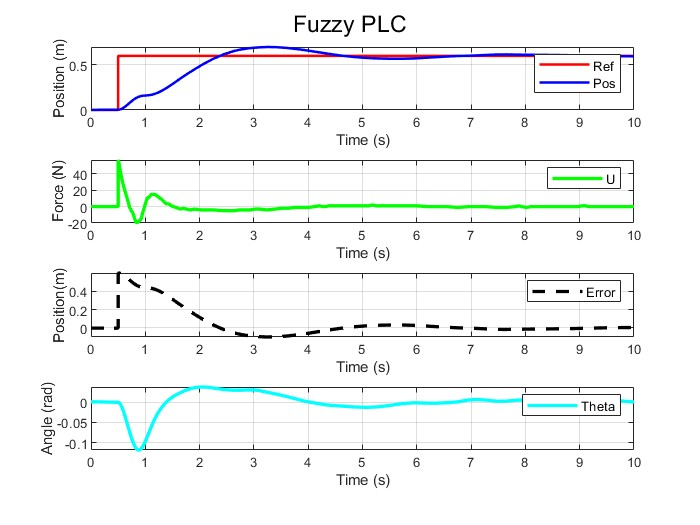
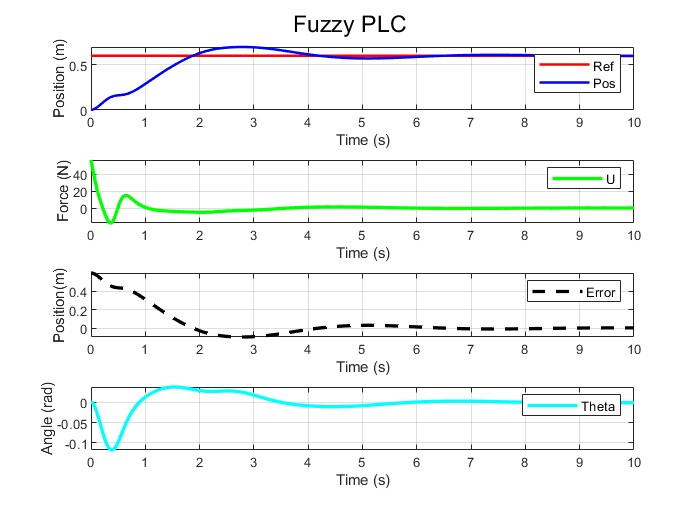
More accuracy in th simulation

diff --git a/PLC Control/Fuzzy system/program.m b/PLC Control/Fuzzy system/program.m
@@ -2,22 +2,4 @@
 close all; bdclose('all'); clc; 
 init; %activate the modbus
 sim("model_sim_fuzzy.slx");
-%graphs
-%Extract the values
-reference = values(:,1);
-pos = values(:,2);
-angle = values(:,3);
-error = values(:,4);
-u = values(:,5);
-%Graphs
-figure();
-subplot(4,1,1);plot(t, reference, 'r-', ...
-                    t, pos, 'b-', 'LineWidth', 1.5);
-xlabel('Time (s)');ylabel('Position (m)');grid();legend('Ref', 'Pos');
-subplot(4,1,2);plot(t, u, 'g-', 'LineWidth', 2);
-xlabel('Time (s)');ylabel('Force (N)');grid();legend('U');
-subplot(4,1,3);plot(t, error, 'k--', 'LineWidth', 2);
-xlabel('Time (s)');ylabel('Position(m)');grid();legend('Error');
-subplot(4,1,4);plot(t, angle, 'c-', 'LineWidth', 2);
-xlabel('Time (s)');ylabel('Angle (rad)');grid();legend('Theta');
-sgtitle('Fuzzy PLC');
+graphs(t,values);

diff --git a/PLC Control/Fuzzy system/graphs.m b/PLC Control/Fuzzy system/graphs.m
@@ -1,0 +1,20 @@
+function graphs(t, values)
+    %Extract the values
+    reference = values(:,1);
+    pos = values(:,2);
+    angle = values(:,3);
+    error = values(:,4);
+    u = values(:,5);
+    %Graphs
+    figure();
+    subplot(4,1,1);plot(t, reference, 'r-', ...
+                    t, pos, 'b-', 'LineWidth', 1.5);
+    xlabel('Time (s)');ylabel('Position (m)');grid();legend('Ref', 'Pos');
+    subplot(4,1,2);plot(t, u, 'g-', 'LineWidth', 2);
+    xlabel('Time (s)');ylabel('Force (N)');grid();legend('U');
+    subplot(4,1,3);plot(t, error, 'k--', 'LineWidth', 2);
+    xlabel('Time (s)');ylabel('Position(m)');grid();legend('Error');
+    subplot(4,1,4);plot(t, angle, 'c-', 'LineWidth', 2);
+    xlabel('Time (s)');ylabel('Angle (rad)');grid();legend('Theta');
+    sgtitle('Fuzzy PLC');
+end

diff --git a/PLC Control/Fuzzy system/controller.m b/PLC Control/Fuzzy system/controller.m
@@ -1,12 +1,9 @@
 function [u] = controller(error, vel, theta)
     global m;
-    error = error * 1e2;
-    vel = vel * 1e2;
-    theta = theta * 1e2;
-    error = round(error);
-    vel = round(vel);
-    theta = round(theta);
+    error = round(error * 1e3);
+    vel = round(vel * 1e3);
+    theta = round(theta * 1e3);
     write(m, 'holdingregs', 501, [error, vel, theta], 'int16'); %write in the PLC
     pause(0.01);
-    u = read(m, 'holdingregs', 504, 1, 'int16'); %read fro the PLC
+    u = read(m, 'holdingregs', 504, 1, 'int16') / 1e2; %read fro the PLC
 end
